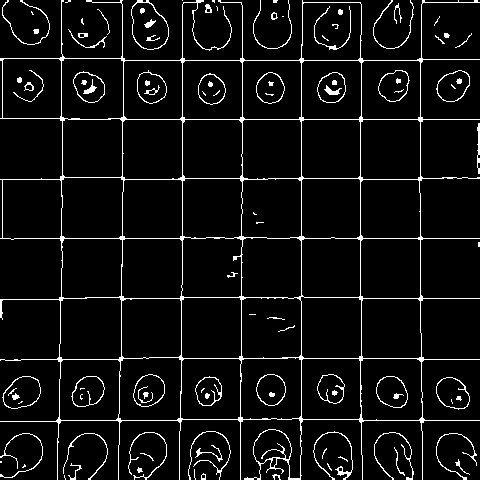
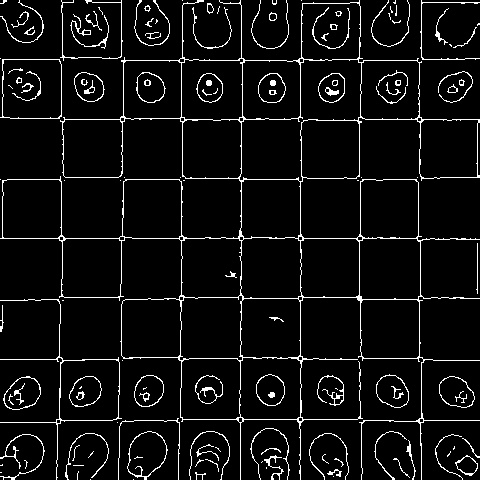
Nouveau compromis

diff --git a/vision/ChessCamera.py b/vision/ChessCamera.py
@@ -92,7 +92,7 @@ class ChessCamera(object):
         np.save(self._chessboard_perspective_transform_path(), M)
 
         if DEBUG:
-            calib = ChessCamera.current_board_frame()
+            calib = self.current_board_frame()
             cv2.imwrite("calibration.jpg", calib.img)
 
     def current_board_frame(self):
@@ -153,8 +153,9 @@ class ChessCamera(object):
 
     def canny(self, img):
         #img = cv2.cvtColor(image, cv2.COLOR_BGR2GRAY)
-        img = self.adjust_gamma(img, CANNY_GAMMA)
+
         img = cv2.GaussianBlur(img, (CANNY_BLUR,CANNY_BLUR), 0)
+        img = self.adjust_gamma(img, CANNY_GAMMA)
         if DEBUG : cv2.imwrite("output/gray.jpg", img)
 
         edged = cv2.Canny(img, CANNY_LOWER, CANNY_UPPER)

diff --git a/vision/constants.py b/vision/constants.py
@@ -1,4 +1,4 @@
-DEBUG = False
+DEBUG = True
 RUN_ON_PI = False
 
 # BOARD CONSTANTS
@@ -8,10 +8,10 @@ BOARD_SIZE = SQUARE_SIZE * 8
 # IMAGE PROCESS
 RESCALE_RATIO = 1.015
 
-CANNY_LOWER = 30
-CANNY_UPPER = 40
-CANNY_BLUR = 5
-CANNY_GAMMA = 2
+CANNY_LOWER = 10
+CANNY_UPPER = 20
+CANNY_BLUR = 9
+CANNY_GAMMA = 4
 
 MASK_BLUR = 29
 MASK_DILATE_ITER = 2
